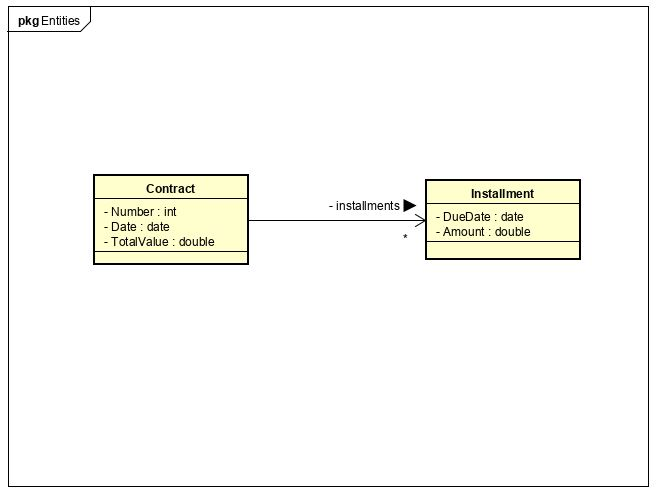
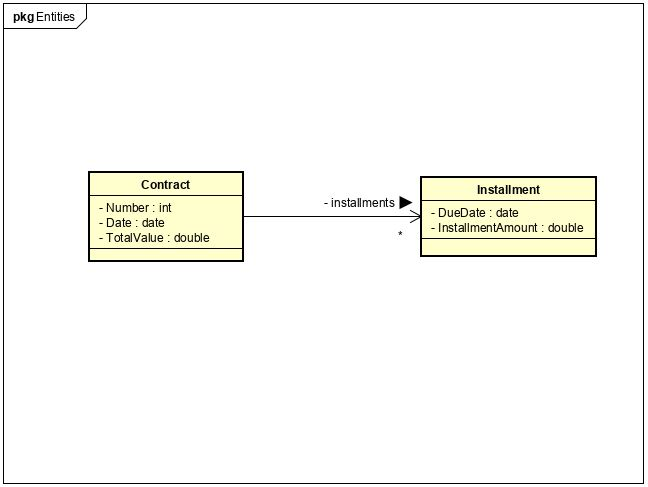
Pequenas alteracoes no diagramas e no codigo fonte para que o projeto ficasse mais conciso.

Changed region(s): [[0.0, 0.0, 1.0, 1.0], [0.1235, 0.3388, 0.9259, 0.5544]]

diff --git a/Contrato.cs/Services/PaymentService.cs b/Contrato.cs/Services/PaymentService.cs
@@ -21,12 +21,12 @@ namespace Contrato.Services
 
             for (int i = 1; i <= Months; i++)
             {
-                double portionAmount = _onlinePaymentService.SimpleInterestRate(portion, i);
-                double result = portion + portionAmount;
-                double tax = _onlinePaymentService.PaymentFee(result);
-                result += tax;
+                double portionRate = _onlinePaymentService.SimpleInterestRate(portion, i);
+                double portionAmount = portion + portionRate;
+                double tax = _onlinePaymentService.PaymentFee(portionAmount);
+                portionAmount += tax;
                 contrato.Date = contrato.Date.AddMonths(1);
-                contrato.AddInstallments(new Installment(contrato.Date, result));                
+                contrato.AddInstallments(new Installment(contrato.Date, portionAmount));                
             }
 
             foreach (var item in contrato.ListInstallments)

diff --git a/Contrato.cs/Entities/Installment.cs b/Contrato.cs/Entities/Installment.cs
@@ -6,17 +6,17 @@ namespace Contrato.Entities
     class Installment
     {
         public DateTime DueDate { get; private set; }
-        public double Amount { get; private set; }
+        public double InstallmentAmount { get; private set; }
 
-        public Installment(DateTime dueDate, double amount)
+        public Installment(DateTime dueDate, double installmentAmout)
         {
             DueDate = dueDate;
-            Amount = amount;
+            InstallmentAmount = installmentAmout;
         }
 
         public override string ToString()
         {
-            return DueDate.ToString("dd/MM/yyyy") + " - " + Amount.ToString("F2", CultureInfo.InvariantCulture);
+            return DueDate.ToString("dd/MM/yyyy") + " - " + InstallmentAmount.ToString("F2", CultureInfo.InvariantCulture);
         }
     }
 }

diff --git a/Contrato.cs/Services/PaypalService.cs b/Contrato.cs/Services/PaypalService.cs
@@ -2,10 +2,10 @@
 {
     class PaypalService : IOnlinePaymentService
     {
-        public double SimpleInterestRate(double portionValue, int currentMonth)
+        public double SimpleInterestRate(double portionRate, int currentMonth)
         {
-            portionValue *= 0.01 * currentMonth;
-            return portionValue;
+            portionRate *= 0.01 * currentMonth;
+            return portionRate;
         }
 
         public double PaymentFee(double amount)

diff --git a/Contrato.cs/Services/IOnlinePaymentService.cs b/Contrato.cs/Services/IOnlinePaymentService.cs
@@ -4,7 +4,7 @@ namespace Contrato.Services
 {
     interface IOnlinePaymentService
     {
-        double SimpleInterestRate(double portionValue, int currentMonth);
+        double SimpleInterestRate(double portionRate, int currentMonth);
         double PaymentFee(double amount);
     }
 }
